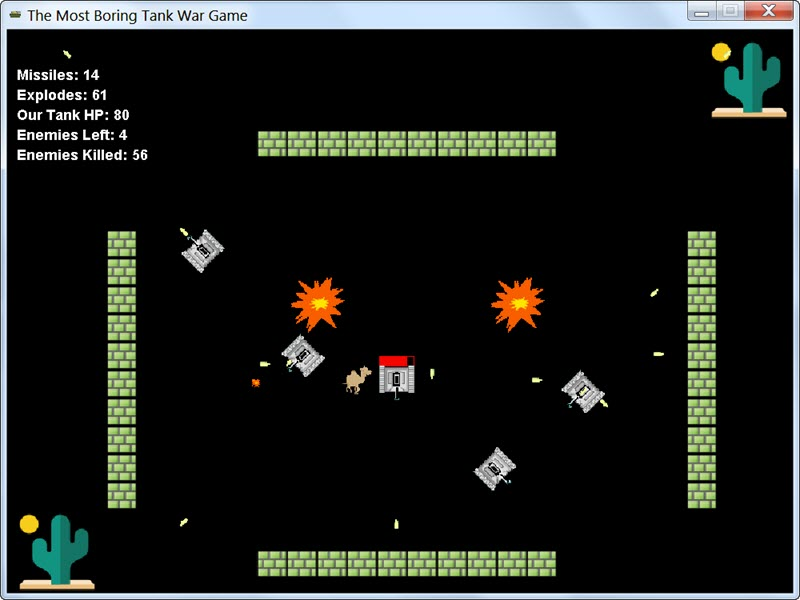
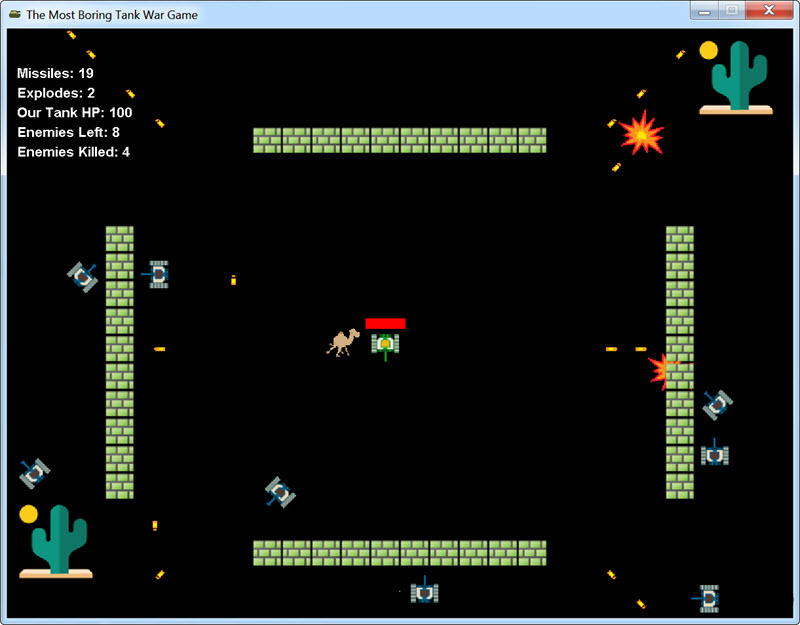
minor adjustments after design renewal

diff --git a/src/Tank.java b/src/Tank.java
@@ -2,13 +2,6 @@ import java.awt.*;
 import java.awt.event.KeyEvent;
 
 class Tank extends GameObject {
-    /**
-     * Simplification for collision detection, as images of tank in different directions
-     * are different in size, it would add some complexity in certain conditions, which
-     * can be handled but require more effort
-     */
-    private static final int REC_WIDTH = 44, REC_HEIGHT = 44;
-
     private static final int SPEED = 5;
 
     private static final int BLOOD_BAR_HEIGHT = 10;
@@ -17,7 +10,11 @@ class Tank extends GameObject {
 
     private static final int LOW_HP_THRESHOLD = 50;
 
+    private static final int DISTANCE_TO_PET = 5;
+
     static final String OBJECT_TYPE = Tank.class.getName().toLowerCase();
+
+    static final String ENEMY_OBJECT_TYPE = "e" + OBJECT_TYPE;
 
     private int hp = MAX_HP;
 
@@ -25,12 +22,9 @@ class Tank extends GameObject {
 
     private Direction direction;
 
-    /**
-     * actual width of tank in current direction, different from that of {@link #REC_WIDTH}
-     */
-    private int width = 35, height = 34;
+    private final int width, height;
 
-    private final boolean isEnemy;
+    private final boolean enemy;
 
     private Image pet;
 
@@ -40,15 +34,18 @@ class Tank extends GameObject {
         this(x, y, false, Direction.Down);
     }
 
-    Tank(int x, int y, boolean isEnemy, Direction direction) {
+    Tank(int x, int y, boolean enemy, Direction direction) {
         this.x = x;
         this.y = y;
-        this.isEnemy = isEnemy;
-        if (!isEnemy) {
+        this.enemy = enemy;
+        if (!enemy) {
             pet = Tools.getImage("pet-camel.gif");
             petWidth = pet.getWidth(null);
         }
         this.direction = direction;
+        Image image = this.getImage();
+        this.width = image.getWidth(null);
+        this.height = image.getHeight(null);
     }
 
     int getHp() {
@@ -65,7 +62,7 @@ class Tank extends GameObject {
 
     void setLive(boolean live) {
         super.setLive(live);
-        if (!this.isLive() && !this.isEnemy) {
+        if (!this.isLive() && !this.enemy) {
             Tools.playAudio("death.mp3");
         }
     }
@@ -75,24 +72,25 @@ class Tank extends GameObject {
     }
 
     boolean isEnemy() {
-        return this.isEnemy;
+        return this.enemy;
+    }
+
+    private Image getImage() {
+        return direction.getImage(this.enemy ? ENEMY_OBJECT_TYPE : OBJECT_TYPE);
     }
 
     @Override
     void draw(Graphics g) {
-        Image img = direction.getImage(OBJECT_TYPE);
-        this.width = img.getWidth(null);
-        this.height = img.getHeight(null);
         // display blood bar for the tank player can control
-        if (!isEnemy) {
+        if (!enemy) {
             g.setColor(Color.RED);
             g.drawRect(x, y - BLOOD_BAR_HEIGHT, width, BLOOD_BAR_HEIGHT);
             int availableHPWidth = width * hp / MAX_HP;
             g.fillRect(x, y - BLOOD_BAR_HEIGHT, availableHPWidth, BLOOD_BAR_HEIGHT);
-            g.drawImage(pet, x - petWidth - 5, y, null);
+            g.drawImage(pet, x - petWidth - DISTANCE_TO_PET, y, null);
         }
 
-        g.drawImage(img, x, y, null);
+        g.drawImage(this.getImage(), x, y, null);
         if (!stopped) {
             int oldX = x, oldY = y;
             x = x + this.direction.xFactor * SPEED;
@@ -107,13 +105,13 @@ class Tank extends GameObject {
     }
 
     private void checkBound() {
-        int minX = isEnemy ? 0 : (petWidth + 5);
+        int minX = enemy ? 0 : (petWidth + DISTANCE_TO_PET);
         if (x < minX) x = minX;
         if (x > TankWar.WIDTH - width) {
             x = TankWar.WIDTH - width;
         }
 
-        int minY = isEnemy ? 0 : BLOOD_BAR_HEIGHT;
+        int minY = enemy ? 0 : BLOOD_BAR_HEIGHT;
         if (y < minY) y = minY;
         if (y > TankWar.HEIGHT - height - minY) {
             y = TankWar.HEIGHT - height - minY;
@@ -160,7 +158,7 @@ class Tank extends GameObject {
                 }
             }
             case KeyEvent.VK_F11 -> {
-                ironSkin = !this.isEnemy && !ironSkin;
+                ironSkin = !this.enemy && !ironSkin;
                 if (ironSkin)
                     System.err.println("CHEATING: Player Tank in Iron Skin Mode!");
                 else
@@ -198,7 +196,7 @@ class Tank extends GameObject {
         if (!this.isLive()) return;
         int x = this.x + width / 2 - Missile.WIDTH / 2;
         int y = this.y + height / 2 - Missile.HEIGHT / 2;
-        TankWar.getInstance().addMissile(new Missile(x, y, isEnemy, dir));
+        TankWar.getInstance().addMissile(new Missile(x, y, enemy, dir));
     }
 
     private void determineDirection() {
@@ -210,8 +208,8 @@ class Tank extends GameObject {
 
     @Override
     Rectangle getRectangle() {
-        int delta = this.isEnemy ? 0 : 40;
-        return new Rectangle(x - delta, y, REC_WIDTH + delta, REC_HEIGHT);
+        int delta = this.enemy ? 0 : petWidth + DISTANCE_TO_PET;
+        return new Rectangle(x - delta, y, width + delta, height);
     }
 
     /**

diff --git a/src/Tools.java b/src/Tools.java
@@ -26,7 +26,7 @@ class Tools {
     /**
      * Play an audio file located under directory "assets/audios"
      */
-    static void playAudio(final String audioFile) {
+    static synchronized void playAudio(final String audioFile) {
         File file = new File("assets/audios/" + audioFile);
         Media media = new Media(file.toURI().toString());
         new MediaPlayer(media).play();

diff --git a/test/DirectionTest.java b/test/DirectionTest.java
@@ -4,7 +4,7 @@ import static org.junit.jupiter.api.Assertions.assertNotNull;
 
 class DirectionTest {
 
-    private final String[] objectTypes = {Tank.OBJECT_TYPE, Missile.OBJECT_TYPE};
+    private final String[] objectTypes = {Tank.OBJECT_TYPE, Tank.ENEMY_OBJECT_TYPE, Missile.OBJECT_TYPE};
 
     @Test
     void getImage() {
